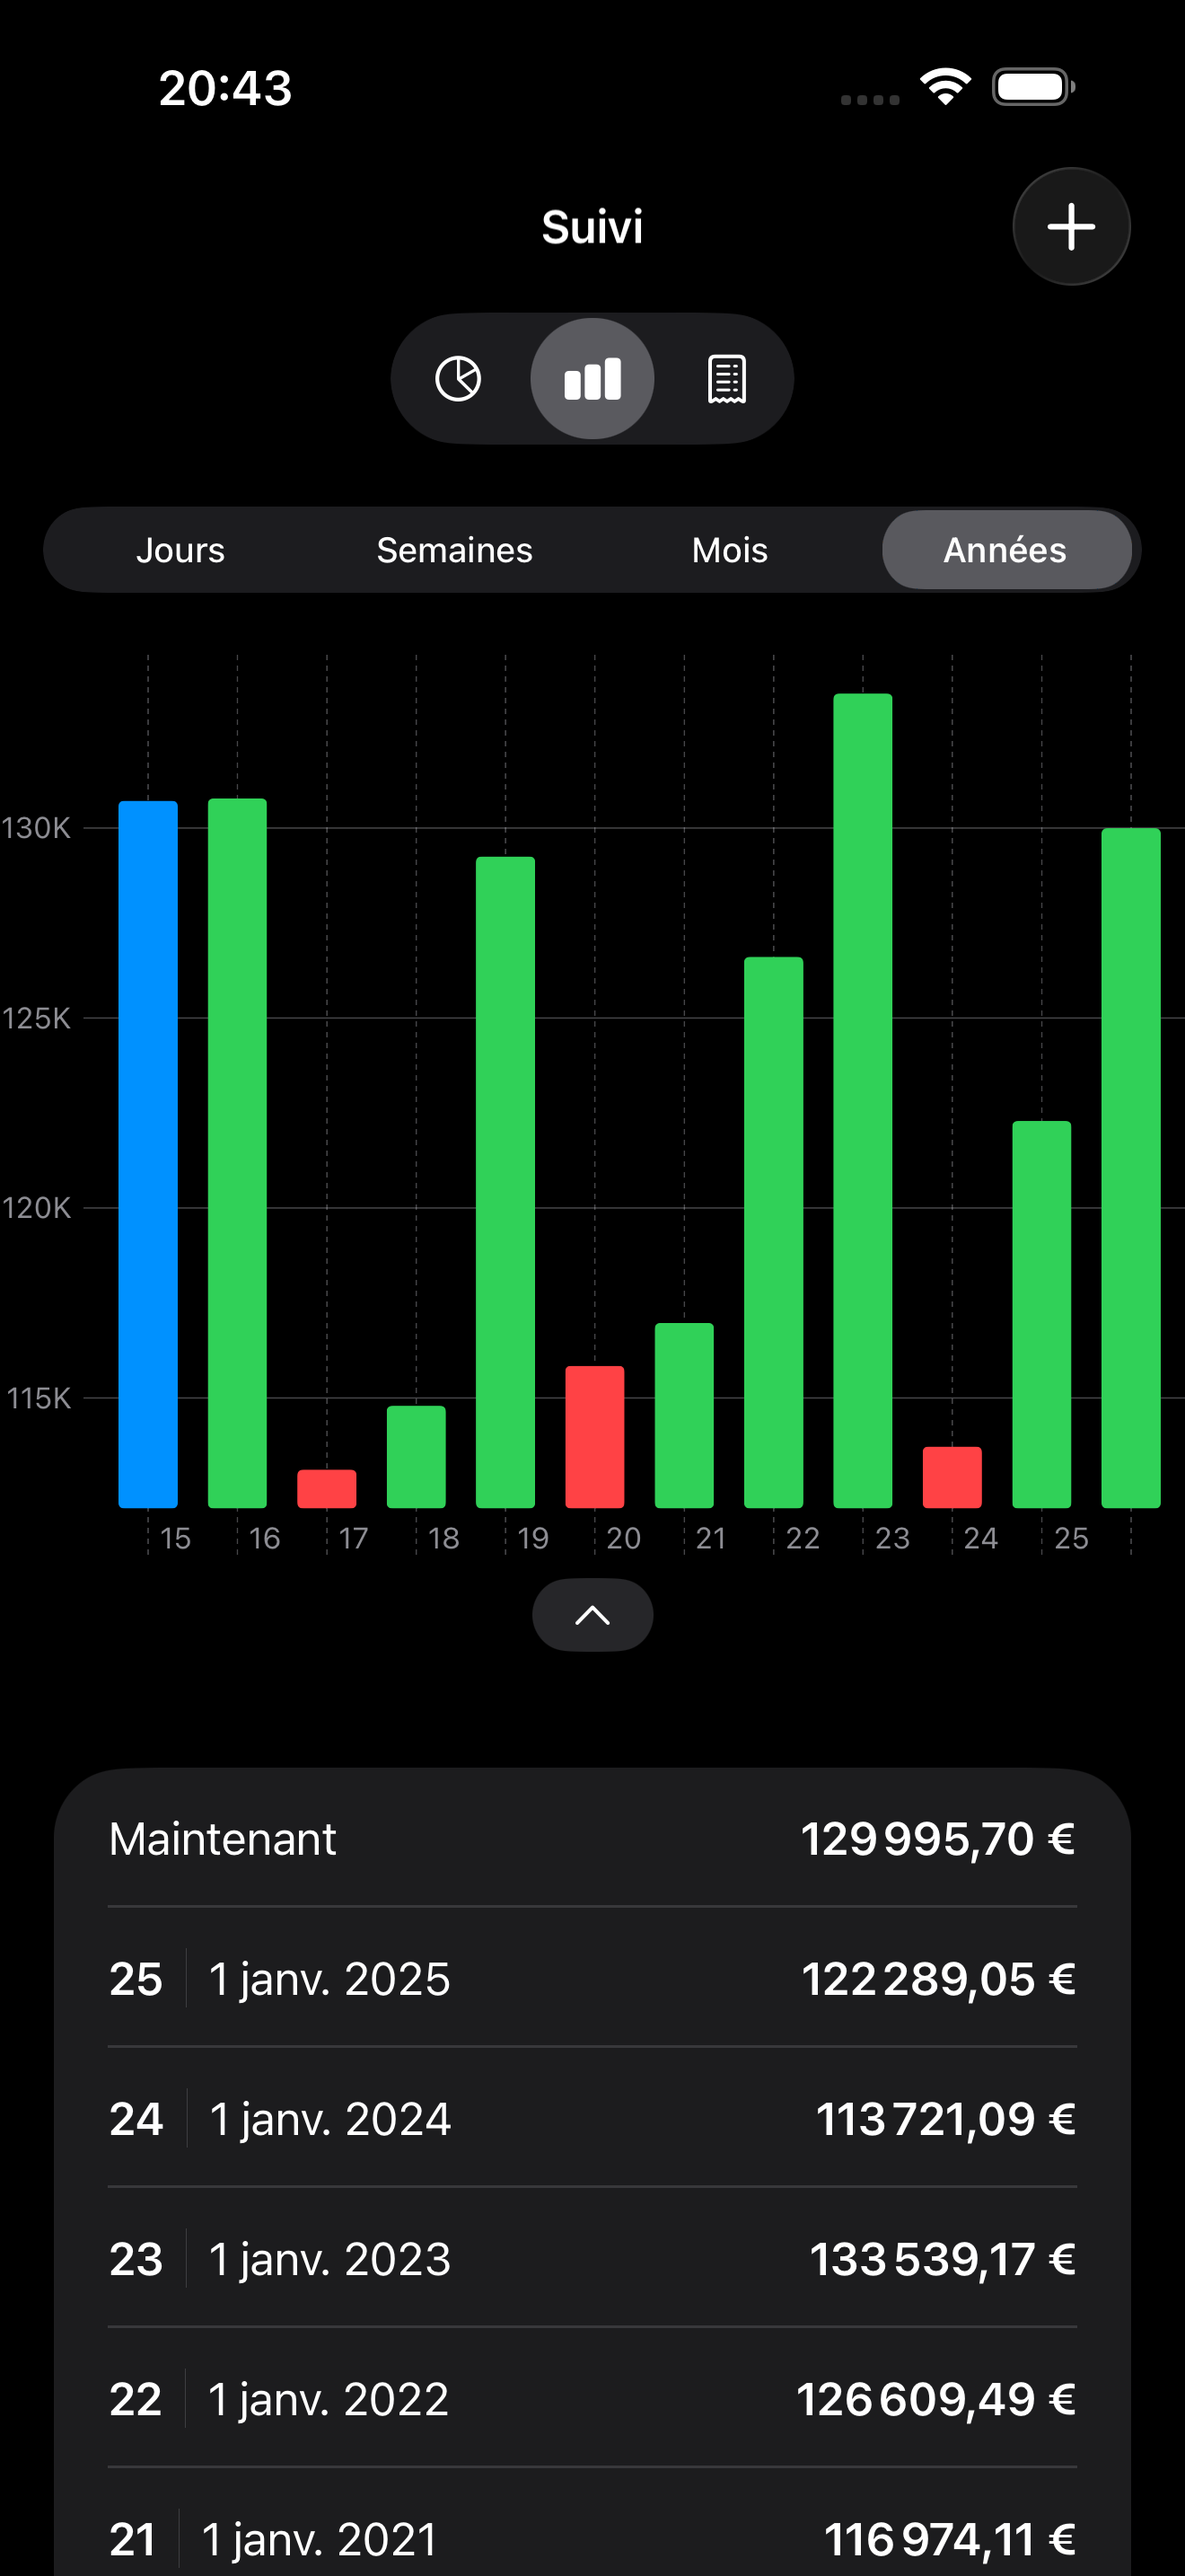
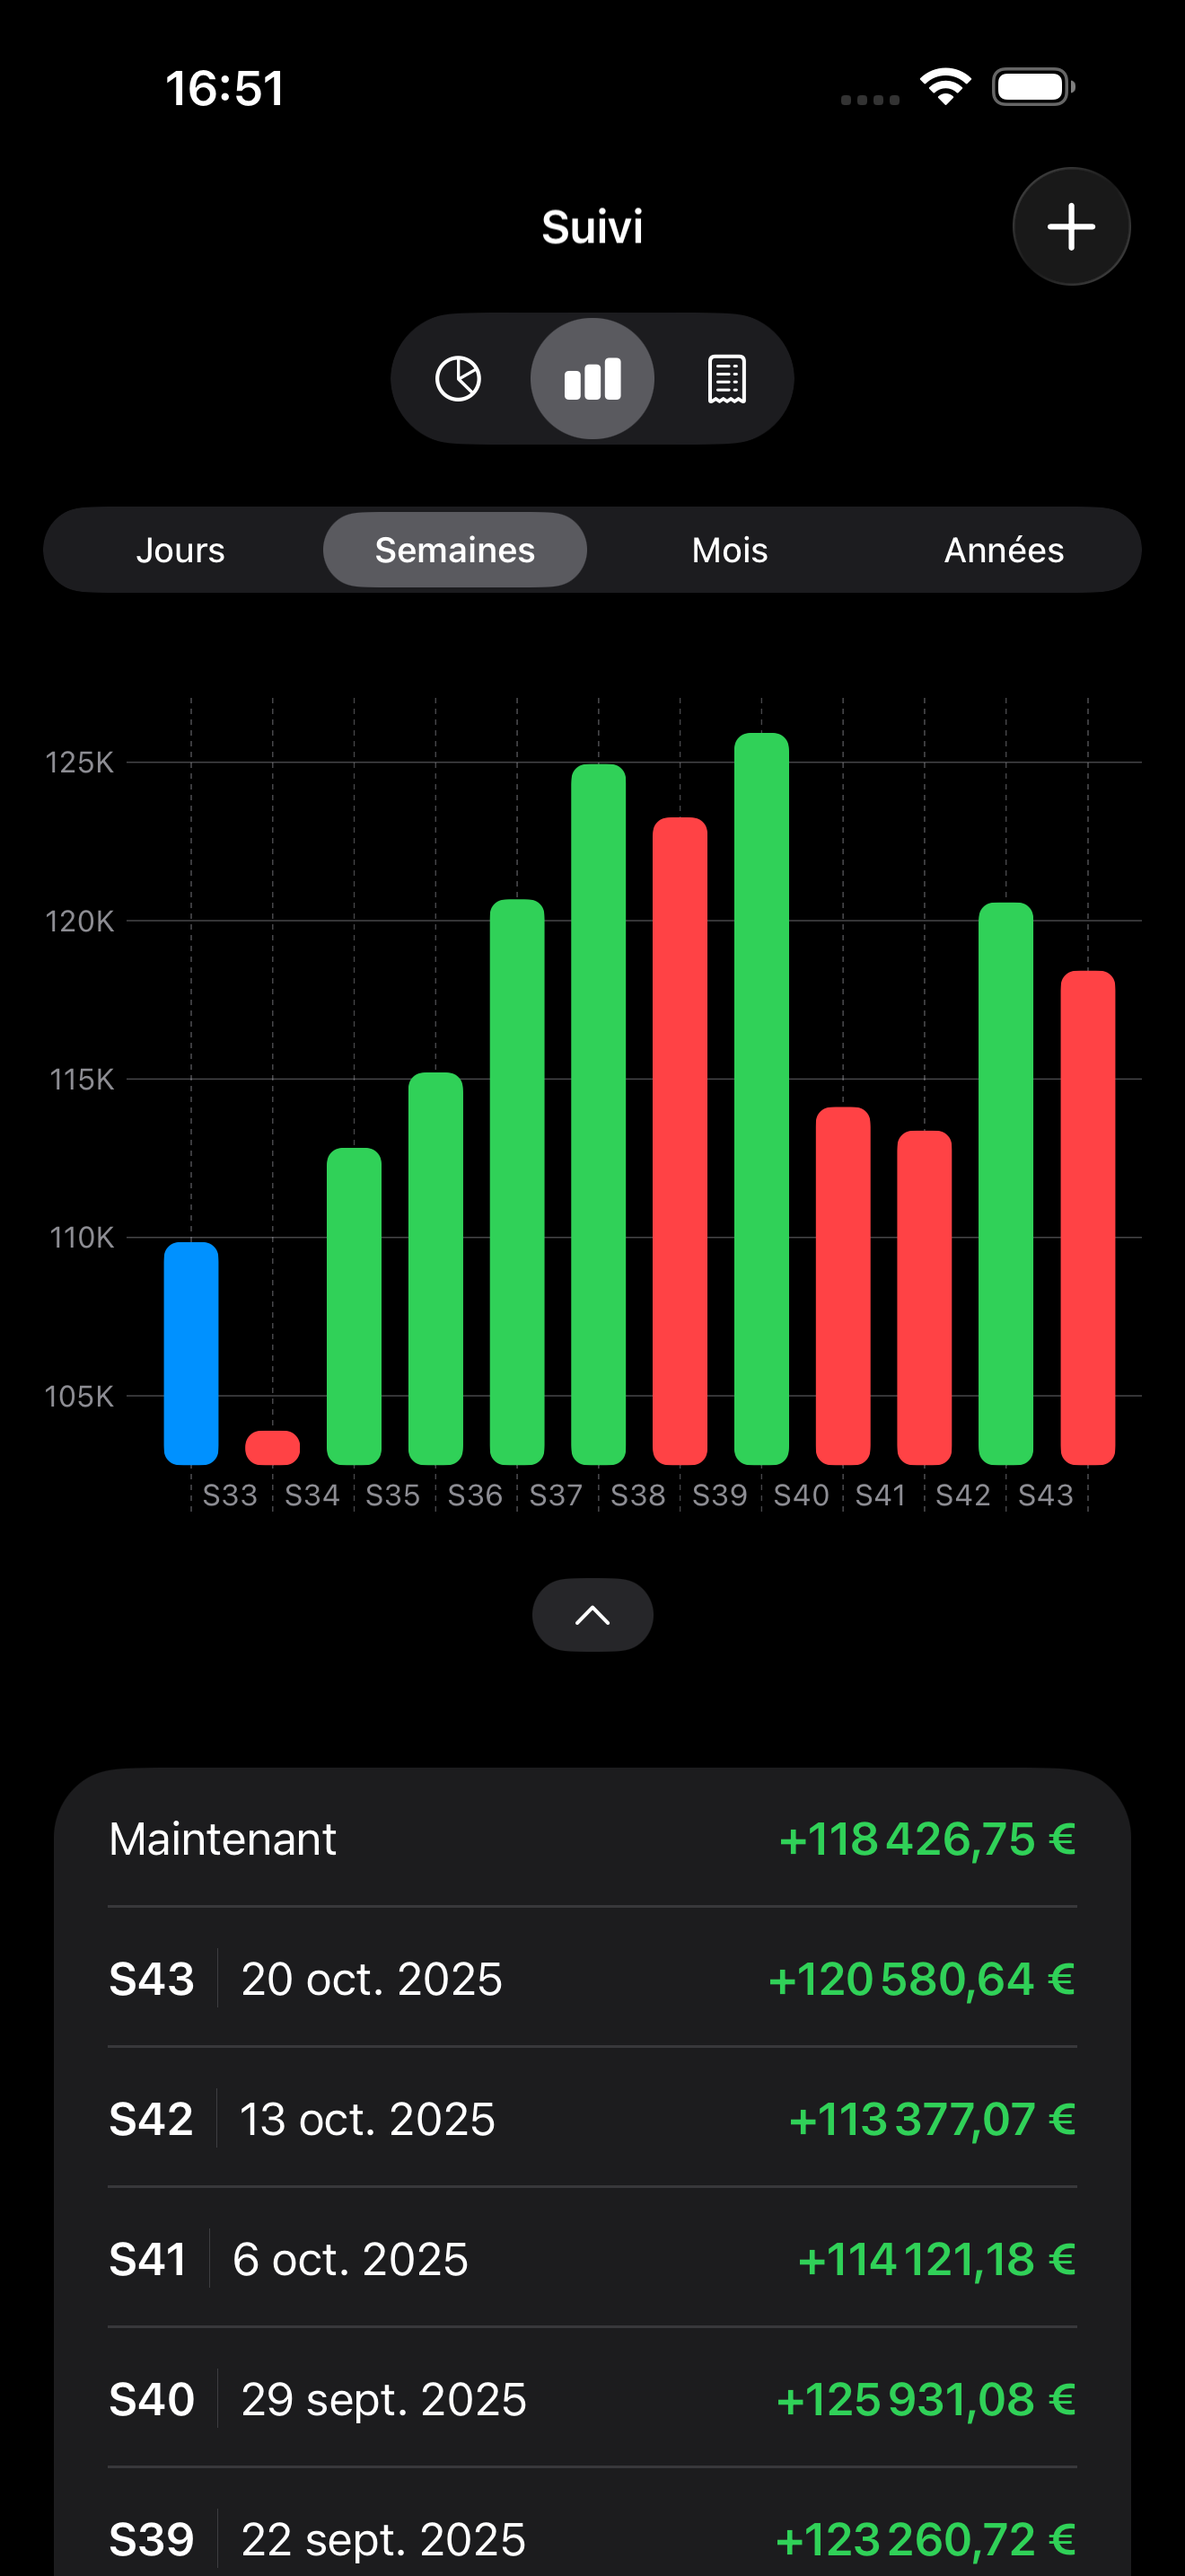
fix: cloudKit issues in prod

diff --git a/Shared/Utils/SwiftData.swift b/Shared/Utils/SwiftData.swift
@@ -6,21 +6,21 @@ extension ModelContainer {
     @MainActor
     static let shared: ModelContainer = {
         let schema = Schema([Account.self, BalanceSnapshot.self, Bank.self, Transaction.self])
-        #if targetEnvironment(simulator) || DEBUG
+#if targetEnvironment(simulator) || DEBUG
         return ModelContainer.getSimulatorSharedContainer(schema: schema)
-        #else
-            let config: ModelConfiguration
-            if FileManager.default.ubiquityIdentityToken != nil {
-                config = ModelConfiguration(schema: schema, cloudKitDatabase: .private(AppIDs.iCloudID))
-            } else {
-                config = ModelConfiguration(schema: schema, cloudKitDatabase: .none)
-            }
-            do {
-                return try ModelContainer(for: schema, configurations: [config])
-            } catch {
-                fatalError("Failed to load SwiftData ModelContainer: \(error)")
-            }
-        #endif
+#else
+        let config: ModelConfiguration
+        if FileManager.default.ubiquityIdentityToken != nil {
+            config = ModelConfiguration(schema: schema, cloudKitDatabase: .private(AppIDs.iCloudID))
+        } else {
+            config = ModelConfiguration(schema: schema, cloudKitDatabase: .none)
+        }
+        do {
+            return try ModelContainer(for: schema, configurations: [config])
+        } catch {
+            fatalError("Failed to load SwiftData ModelContainer: \(error)")
+        }
+#endif
     }()
     
     @MainActor

diff --git a/Shared/Transaction/Transaction.swift b/Shared/Transaction/Transaction.swift
@@ -5,14 +5,16 @@ import SwiftUI
 @Model
 final class Transaction {
     
+    #Index<Transaction>([\.date])
+
     var title: String = ""
     var date: Date = Date()
     
     /// Always positive (transactionType expense or income will infer the sign -/+)
     var amount: Double = 0.0
     var account: Account? = nil
-    var transactionType: TransactionType
-    var paymentMethod: PaymentMethod
+    var transactionType = TransactionType.income
+    var paymentMethod = PaymentMethod.bankTransfer
     var expenseCategory: ExpenseCategory? = nil
     /// True if this transaction is an internal transfer between accounts
     var isInternalTransfer: Bool = false

diff --git a/Shared/Charts/BalanceChartView.swift b/Shared/Charts/BalanceChartView.swift
@@ -27,6 +27,7 @@ struct BalanceChartView: View {
                     width: .fixed(geo.size.width / 20)
                 )
                 .foregroundStyle(by: .value("", point.change))
+                .cornerRadius(6)
             }
             .chartForegroundStyleScale([
                 "equal": .blue,

diff --git a/Shared/Balance/BalanceSnapshot.swift b/Shared/Balance/BalanceSnapshot.swift
@@ -4,6 +4,8 @@ import SwiftData
 @Model
 final class BalanceSnapshot: Identifiable, Hashable {
     
+    #Index<BalanceSnapshot>([\.date])
+    
     var date: Date = Date()
     var balance: Double = 0.0
     var account: Account? = nil
